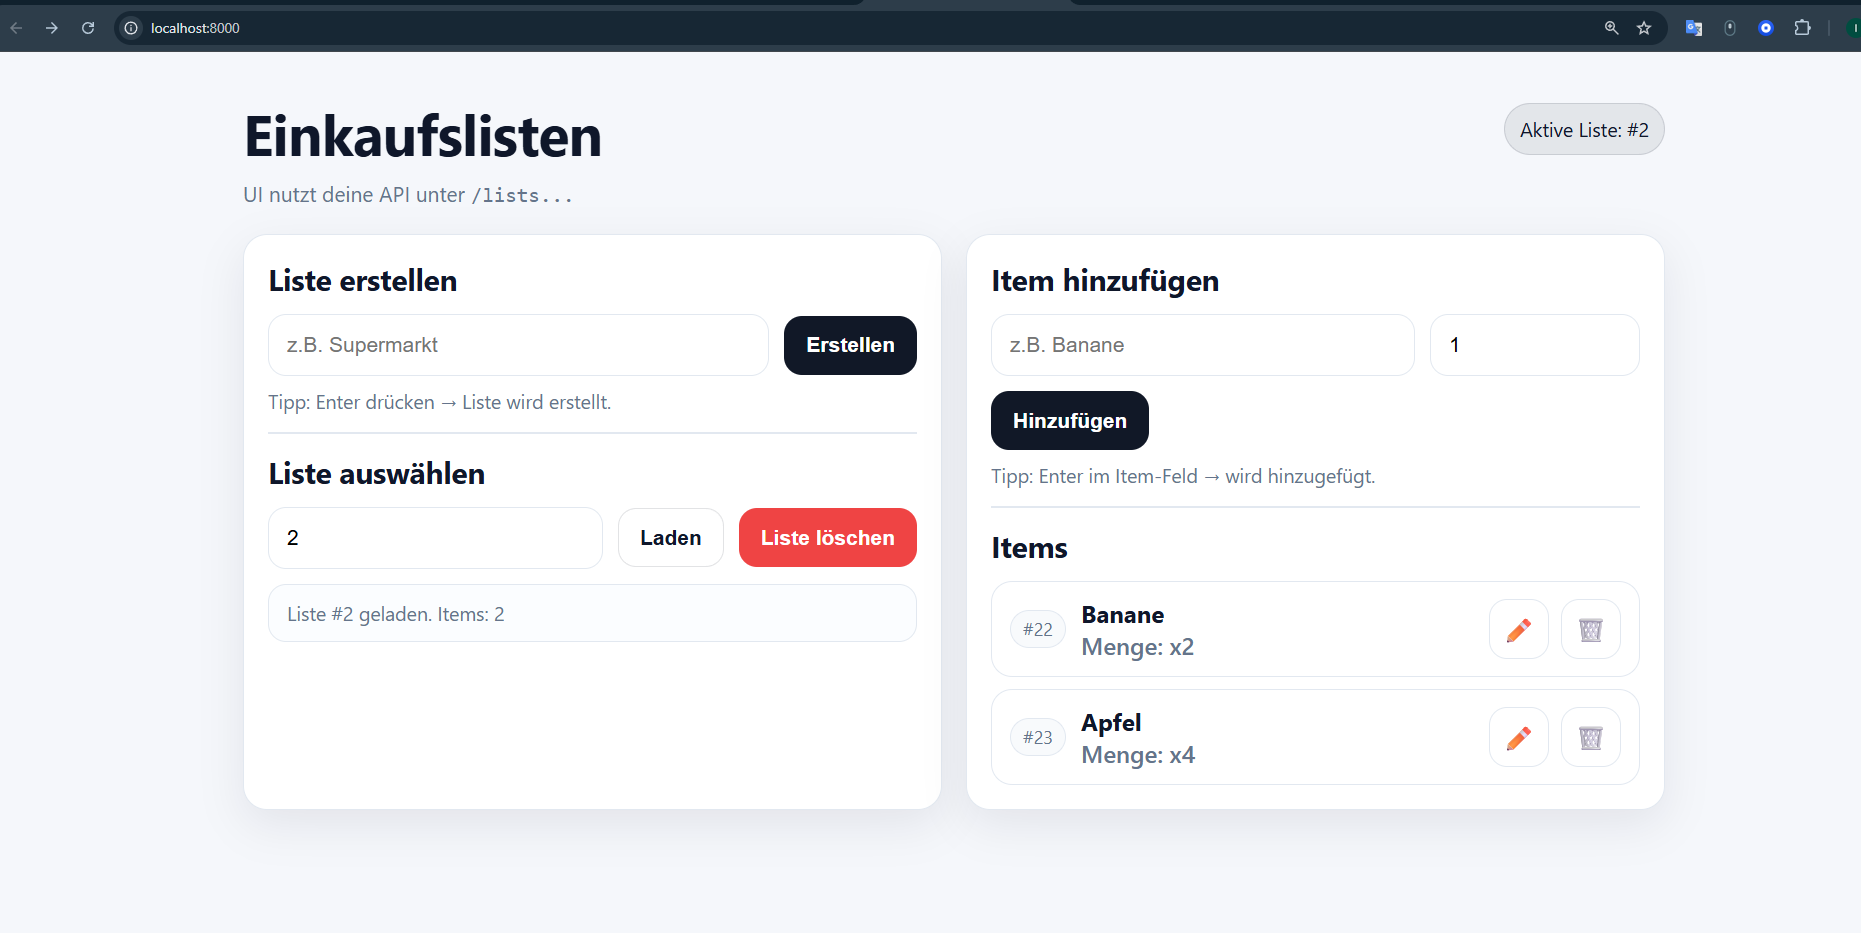
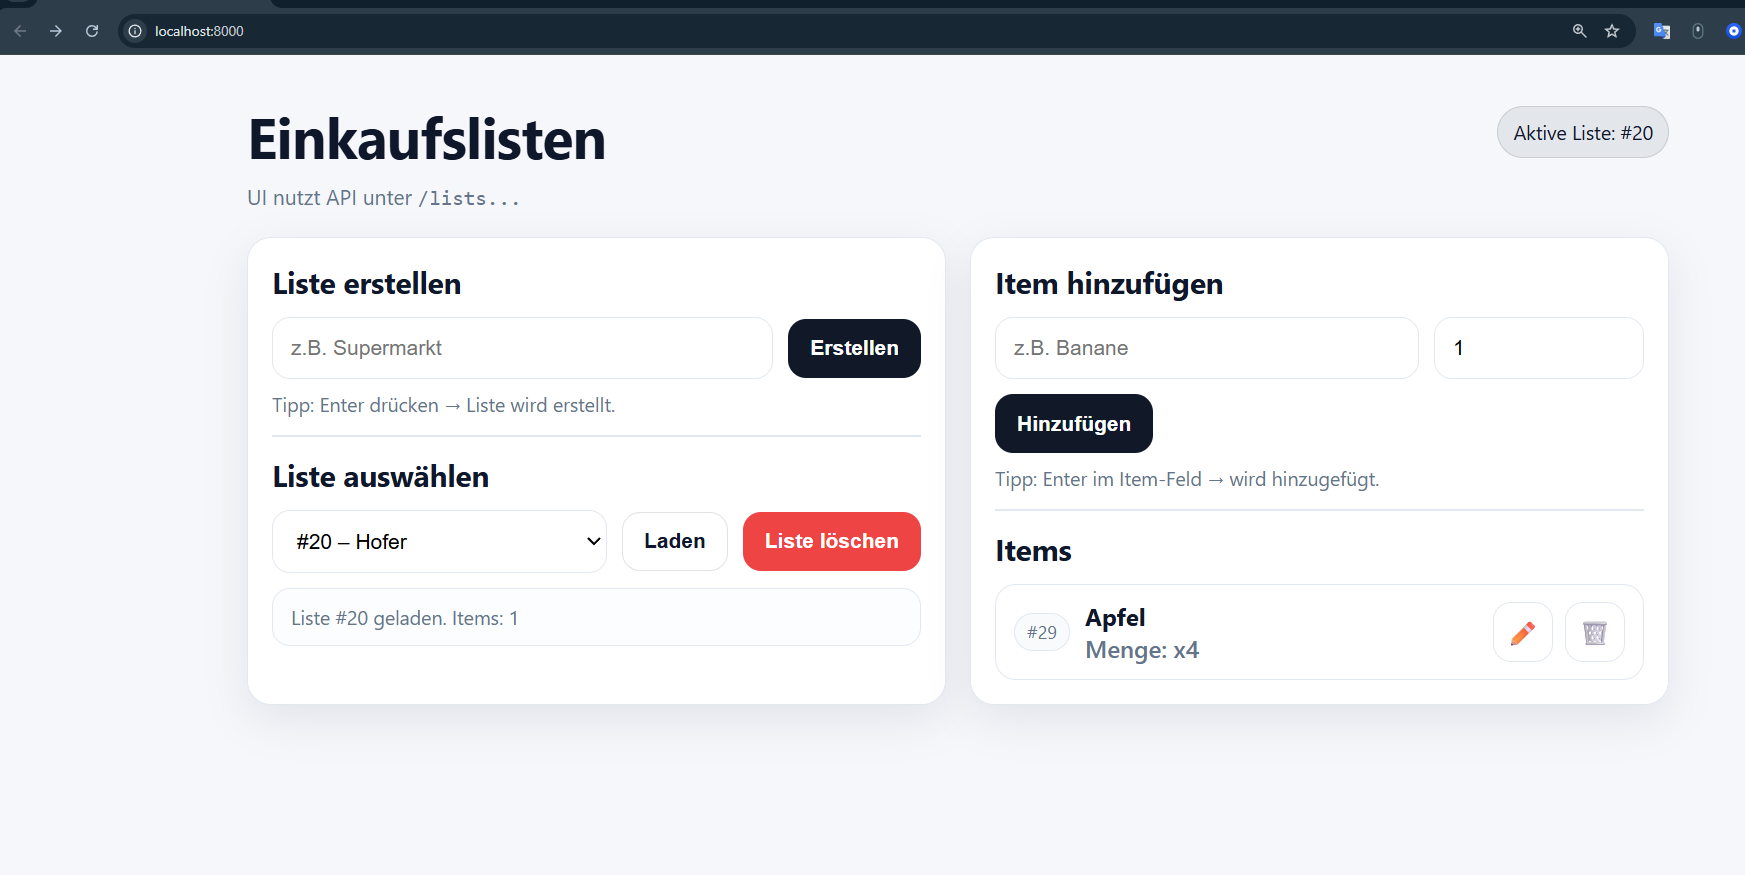
List auswählen UI verbessert benutzerfreundlich

diff --git a/README.md b/README.md
@@ -25,7 +25,8 @@ http://localhost:8000/
 
 ## Screenshot
 
-![App Screenshot](einkaufsliste1.png)
+![App Screenshot](einkaufsliste.png)
+![App Screenshot](localhost8000lists.png)
 
 ---
 
